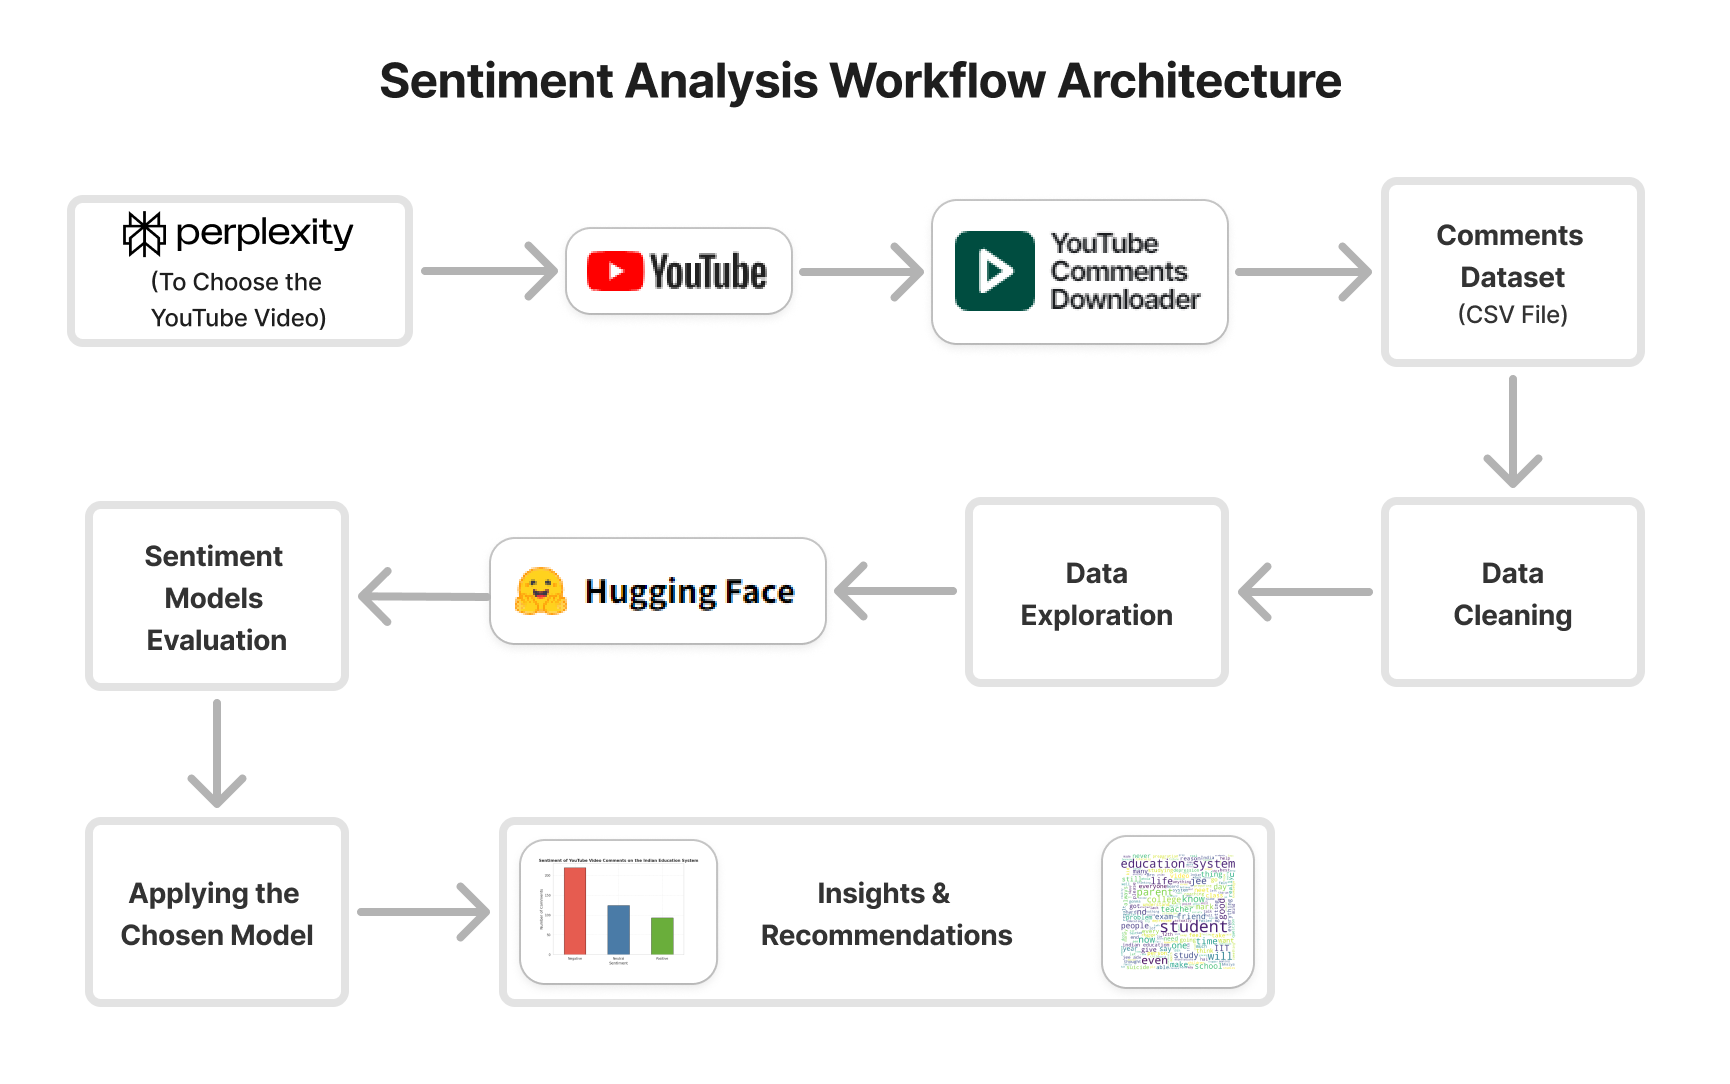
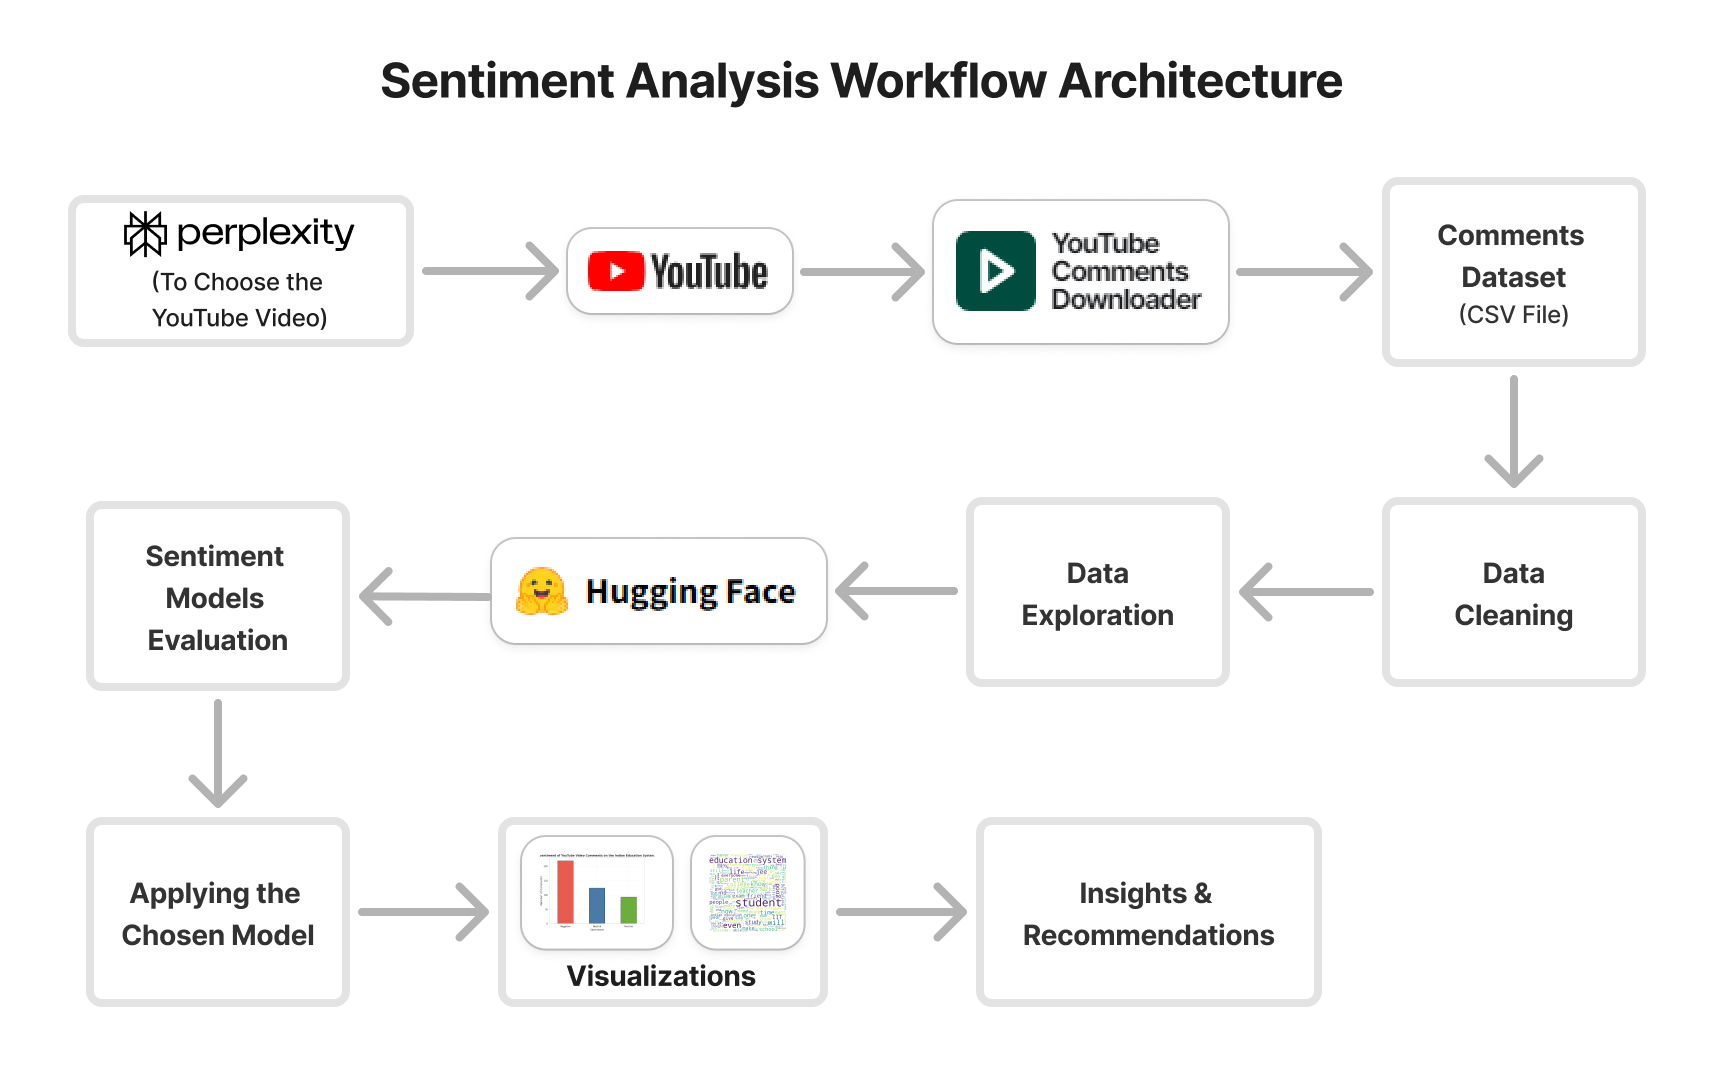
update

diff --git a/README.md b/README.md
@@ -1,2 +1,30 @@
 # Sentiment Analysis of YouTube Video Comments on the Indian Education System
 
+## Project Workflow
+
+![Project Workflow](https://github.com/vikramsalunkhe256/youtube-comments-sentiment-analysis/blob/main/images/workflow_architecture.png)
+
+## Sentiment Distribution
+
+![Sentiment Distribution](https://github.com/vikramsalunkhe256/youtube-comments-sentiment-analysis/blob/main/images/sentiment_distribution.png)
+
+## Pain Points
+
+![Pain Points](https://github.com/vikramsalunkhe256/youtube-comments-sentiment-analysis/blob/main/images/word_cloud.png)
+
+## Insights and Recommendations
+
+- **Mental health crises fueled by academic pressure.**
+- **An exam-focused, competitive culture that neglects holistic development.**
+- **A commercialized education system where coaching plays a central role.**
+- **A call for systemic change to reduce pressure and focus on skills and life preparation.**
+
+The word cloud portrays the highly pressurized, exam-focused nature of the Indian education system, where parental pressure, mental health struggles, and high-stakes competitive exams dominate conversations.
+
+These insights show a collective dissatisfaction with the rigid structure of the Indian education system and a growing desire for a more balanced, student-friendly approach.
+
+## Author
+
+Developed by Vikram Salunkhe.
+
+For any inquiries or feedback, feel free to reach out to me at vikramsalunkhe256@gmail.com or [LinkedIn](https://www.linkedin.com/in/vikramsalunkhe256/).
